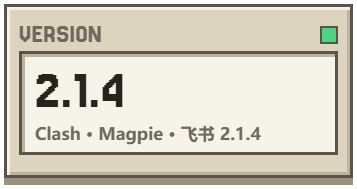
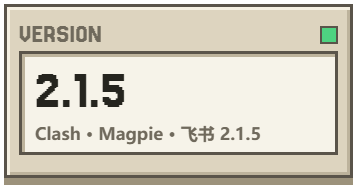
build(发行): 2.1.5 三包与目录摘要回填
2.1.4 漏发 Clash 触发器对齐修复（d159d84 未合入 main），本版一并补上并把三插件版本统一到 2.1.5。
catalog 三行回填真实包值与 v2.1.5 下载地址；README / 头部版本卡 / 错误码文案 / 维护者与开发者文档同步 2.1.5；
新增 docs/releases/2.1.5.md 说明为何是补丁重发，并把「收尾必须校验功能分支已全部合入」写进流程教训。

Changed region(s): [[0.2773, 0.3704, 0.3697, 0.582], [0.6779, 0.6614, 0.7395, 0.7407]]

diff --git a/assets/readme/header.html b/assets/readme/header.html
@@ -71,7 +71,7 @@ h1{margin:0;font-size:124px;line-height:1.12;height:140px;white-space:nowrap}
 <img class="mascot" src="mascot.png" width="188" height="239" alt="用户指定的求佛透明挂件">
 </section>
 <section class="metrics">
-<div id="stat-version" class="metric frame"><div class="metric-head pixel">VERSION<i class="lamp"></i></div><div class="metric-value"><span class="number pixel">2.1.4</span><span class="metric-label" data-zh="三插件 2.1.4" data-en="PLUGINS 2.1.4"></span></div></div>
+<div id="stat-version" class="metric frame"><div class="metric-head pixel">VERSION<i class="lamp"></i></div><div class="metric-value"><span class="number pixel">2.1.5</span><span class="metric-label" data-zh="三插件 2.1.4" data-en="PLUGINS 2.1.4"></span></div></div>
 <div id="stat-desktop" class="metric frame"><div class="metric-head pixel">PLUGINS<i class="lamp"></i></div><div class="metric-value"><span class="number pixel">3 PLUGINS</span><span class="metric-label" data-zh="三个独立插件" data-en="INDEPENDENT PLUGINS"></span></div></div>
 <div id="stat-mail" class="metric frame"><div class="metric-head pixel">PACKAGES<i class="lamp"></i></div><div class="metric-value"><span class="number pixel" data-zh="3 PACKS" data-en="3 PACKS"></span><span class="metric-label" data-zh="三个 npm 单包" data-en="NPM SINGLE PACKAGES"></span></div></div>
 <div id="stat-channels" class="metric frame"><div class="metric-head pixel">HOST API<i class="lamp"></i></div><div class="metric-value"><span class="number pixel">API 1</span><span class="metric-label" data-zh="FISH Dock 2.0.0+" data-en="FISH DOCK 2.0.0+"></span></div></div>

diff --git a/plugins/clash/page.js b/plugins/clash/page.js
@@ -118,8 +118,8 @@
   // 插件协议层（d.sdk/宿主产生）：不要落到「未识别错误」。
   COMMAND_FAILED:'这次操作插件没能完成：请重试；仍失败请打开插件日志查看原因',
   NOT_ACTIVE:'插件尚未启用：回到插件页启用后重试',
-  UNKNOWN_METHOD:'宿主与插件版本不匹配（页面要的方法插件没有）：请更新插件到 2.1.4 后重试',
-  CAPABILITY_REQUIRED:'宿主与插件版本不匹配（插件没声明所需能力）：请更新插件到 2.1.4 后重试',
+  UNKNOWN_METHOD:'宿主与插件版本不匹配（页面要的方法插件没有）：请更新插件到 2.1.5 后重试',
+  CAPABILITY_REQUIRED:'宿主与插件版本不匹配（插件没声明所需能力）：请更新插件到 2.1.5 后重试',
   BAD_HANDSHAKE:'插件没能与 Dock 完成握手：请重新安装该插件；仍失败请打开插件日志',
   HANDSHAKE_REQUIRED:'插件会话尚未就绪：请关闭并重新打开插件页面后重试',
   OPERATION_ERROR:'插件操作未完成：请刷新后重试；仍失败请打开插件日志查看原因'};

diff --git a/README.md b/README.md
@@ -12,18 +12,18 @@
 </picture>
 
 <p>
-  <a href="https://github.com/Fish-under-sea/FISH-DOCK-Plugins/releases/tag/v2.1.4"><picture><source media="(prefers-color-scheme: dark)" srcset="assets/readme/config-stat-version-zh-dark.png"><img src="assets/readme/config-stat-version-zh-light.png" alt="VERSION：三插件 2.1.4" width="23%"></picture></a>
+  <a href="https://github.com/Fish-under-sea/FISH-DOCK-Plugins/releases/tag/v2.1.5"><picture><source media="(prefers-color-scheme: dark)" srcset="assets/readme/config-stat-version-zh-dark.png"><img src="assets/readme/config-stat-version-zh-light.png" alt="VERSION：三插件 2.1.4" width="23%"></picture></a>
   <a href="#plugins"><picture><source media="(prefers-color-scheme: dark)" srcset="assets/readme/config-stat-desktop-zh-dark.png"><img src="assets/readme/config-stat-desktop-zh-light.png" alt="PLUGINS：三个独立插件" width="23%"></picture></a>
   <a href="#packages"><picture><source media="(prefers-color-scheme: dark)" srcset="assets/readme/config-stat-mail-zh-dark.png"><img src="assets/readme/config-stat-mail-zh-light.png" alt="PACKAGES：三个 npm 单包" width="23%"></picture></a>
   <a href="https://github.com/Fish-under-sea/FISH-Dock"><picture><source media="(prefers-color-scheme: dark)" srcset="assets/readme/config-stat-channels-zh-dark.png"><img src="assets/readme/config-stat-channels-zh-light.png" alt="HOST API：1，兼容 FISH Dock 2.0.0+" width="23%"></picture></a>
 </p>
 
-<p><img src="https://img.shields.io/badge/Node.js-24.14%2B-8fd6a0?style=flat-square&amp;logo=nodedotjs&amp;logoColor=white&amp;labelColor=5a544a" alt="Node.js 24.14+"> <img src="https://img.shields.io/badge/Adapter%20License-MIT-8fd6a0?style=flat-square&amp;labelColor=5a544a" alt="插件适配代码许可 MIT"> <img src="https://img.shields.io/badge/mihomo-GPL--3.0-f08a5d?style=flat-square&amp;labelColor=5a544a" alt="随包 mihomo 许可 GPL-3.0"> <img src="https://img.shields.io/badge/Plugins-2.1.4-8fd6a0?style=flat-square&amp;labelColor=5a544a" alt="三插件 2.1.4"></p>
+<p><img src="https://img.shields.io/badge/Node.js-24.14%2B-8fd6a0?style=flat-square&amp;logo=nodedotjs&amp;logoColor=white&amp;labelColor=5a544a" alt="Node.js 24.14+"> <img src="https://img.shields.io/badge/Adapter%20License-MIT-8fd6a0?style=flat-square&amp;labelColor=5a544a" alt="插件适配代码许可 MIT"> <img src="https://img.shields.io/badge/mihomo-GPL--3.0-f08a5d?style=flat-square&amp;labelColor=5a544a" alt="随包 mihomo 许可 GPL-3.0"> <img src="https://img.shields.io/badge/Plugins-2.1.5-8fd6a0?style=flat-square&amp;labelColor=5a544a" alt="三插件 2.1.4"></p>
 <p><strong>FISH Plugins &amp; Configuration · 插件配置仓</strong><br>官方插件、配置说明与发行入口；按需安装，独立运行。</p>
 
 <p>
   <a href="#get-started"><picture><source media="(prefers-color-scheme: dark)" srcset="assets/readme/key-download-zh-dark.png"><img src="assets/readme/key-download-zh-light.png" alt="下载 / Releases" height="40"></picture></a>
-  <a href="https://github.com/Fish-under-sea/FISH-DOCK-Plugins/releases/tag/v2.1.4"><picture><source media="(prefers-color-scheme: dark)" srcset="assets/readme/key-release-zh-dark.png"><img src="assets/readme/key-release-zh-light.png" alt="更新记录" height="40"></picture></a>
+  <a href="https://github.com/Fish-under-sea/FISH-DOCK-Plugins/releases/tag/v2.1.5"><picture><source media="(prefers-color-scheme: dark)" srcset="assets/readme/key-release-zh-dark.png"><img src="assets/readme/key-release-zh-light.png" alt="更新记录" height="40"></picture></a>
   <a href="https://github.com/Fish-under-sea/FISH-DOCK-Plugins/issues"><picture><source media="(prefers-color-scheme: dark)" srcset="assets/readme/key-issues-zh-dark.png"><img src="assets/readme/key-issues-zh-light.png" alt="反馈 / Issues" height="40"></picture></a>
 </p>
 
@@ -35,14 +35,16 @@
 
 每个插件独立保存配置与凭据，按需启动，不共享业务密钥。插件仓只发布插件资源，桌面安装包请前往 [FISH-Dock](https://github.com/Fish-under-sea/FISH-Dock)。
 
-本版是**三插件 2.1.4**：**Clash 2.1.3 → 2.1.4**、**Magpie 2.1.3 → 2.1.4**、**飞书 2.1.0 → 2.1.4**。要求 **FISH Dock ≥ 2.0.0**。完整改动见 [2.1.4 发行说明](docs/releases/2.1.4.md)。
+本版是**三插件 2.1.5**（2.1.4 的补丁重发：Clash 的触发器对齐修复在 2.1.4 里漏合，本版一并补上）。三插件版本一致：**Clash 2.1.4 → 2.1.5**、**Magpie 2.1.4 → 2.1.5**、**飞书 2.1.4 → 2.1.5**。要求 **FISH Dock ≥ 2.0.0**。完整改动见 [2.1.5 发行说明](docs/releases/2.1.4.md)。
 
-**2.1.4 改了什么**
+**2.1.5 改了什么**
 
 - **Clash：七项 UX 修复 + 订阅运行中热切换**：胶囊按钮不再被长文案压成竖排圆块（禁用原因拆成按钮下方小字）；详情卡「复制」按钮移除、左右两卡行高基线对齐；**点订阅卡 = 高亮 + 切换启用**（同时只允许一条启用，卡内开关与卡片高亮双向联动）；内核运行中切换订阅**热重载配置，不停内核**（失败自动回滚启用集与配置文件）；下拉弹层内滚轮不再误关闭；两个下拉箭头换成内联 SVG 垂直居中；读数行数值不再被裁。注意一条行为变化：**没有缓存的订阅现在直接拒绝启用**（此前是「启用成功、下次启动内核才失败」），避免内核带着空 provider 起来。
+- **Clash 两个下拉触发器首列对齐（2.1.5 补发）**：`justify-content:flex-start` + 图标盒恒在 + 右侧那组贴右（有延迟由延迟吃 `auto`，没有则由箭头吃），两个触发器的文字相对左边缘偏移实测 37px = 37px；顺带修掉「无 emoji 时首列少 24px」。
+- **以下为 2.1.4 首次引入、2.1.5 一并包含**：
 - **飞书页面按 2.1.4 设计语言重构**：单栏与双栏两套布局分别设计（不是一套挤成两列，720px 以下自动降单栏）；token 化自持深浅主题；布局切换器、卡片、按钮语义、状态 banner 与无障碍全部对齐 Clash 同款刻度。
 - **Magpie：exe 换上游基线 `v0.1.2732`（`+fish.9`）**，随包 exe 与 2.1.3 **不再逐字节相同**（74,019,840 → 79,512,064 B）。上游带来的用户可感知变化见[发行说明](docs/releases/2.1.4.md)；我们自己的改动：**新增内置 Meoo 秒悟（建站 Agent）**、**OpenCode Zen Free 移出预装**（已装用户不受影响，美化素材保留）、**#18 五项落地**——讯飞不再显示假 400（读不到真实积分就「未告知」）、签到数据带「截至时间/来源」、不支持采集的显示标记、首启「正在准备 N 个供应商插件」可用、首启图标不再抖动；`preinstall-state.json` 首启落盘接上线。
-- **包与版本**：三插件统一 2.1.4；`magpie.exe` 版本资源 `0.1.2732.9`（ProductName `magpie fish`）；内置页面插件 `page-checkin` 保持 0.2.6。
+- **包与版本**：三插件统一 2.1.5；`magpie.exe` 版本资源 `0.1.2732.9`（ProductName `magpie fish`）；内置页面插件 `page-checkin` 保持 0.2.6。
 
 > ℹ **2.1.3 的已知限制已在 2.1.4 修复**：讯飞今日积分显示 400 的问题（读取侧补偿）随 #18 的 B1 移除，读不到真实积分时显示「未告知」。
 
@@ -120,7 +122,7 @@
 
 <h2 id="get-started"><picture><source media="(prefers-color-scheme: dark)" srcset="assets/readme/section-install-dark.png"><img src="assets/readme/section-install-light.png" alt="INSTALL · 安装使用" width="100%"></picture></h2>
 
-安装前先核对宿主版本：三个插件都是 2.1.4，**FISH Dock 需要 2.0.0 及以上**；1.2.3 及更早的宿主会因清单里的 `behaviors` 字段拒装。
+安装前先核对宿主版本：三个插件都是 2.1.5，**FISH Dock 需要 2.0.0 及以上**；1.2.3 及更早的宿主会因清单里的 `behaviors` 字段拒装。
 
 **方式一：Dock 内插件市场（推荐）**
 
@@ -130,7 +132,7 @@
 
 **方式二：npm 单包**
 
-1. `npm install @fish-under-sea/fish-dock-plugin-<插件>@2.1.4`（三个包名见下方「npm 单包」一节）。
+1. `npm install @fish-under-sea/fish-dock-plugin-<插件>@2.1.5`（三个包名见下方「npm 单包」一节）。
 2. `npx @fish-under-sea/fish-dock-plugin-<插件> --out C:/work/plugins`：把已校验的 `.fish-plugin` 复制到指定目录；目标已存在同名文件时命令会停下，不覆盖。
 3. 在 Dock 的「插件」页导入该 `.fish-plugin`，其余同方式一。
 
@@ -138,23 +140,23 @@
 
 | 插件 | GitHub 包 | npm 单包 |
 | --- | --- | --- |
-| 飞书 2.1.4 | [`feishu.fish-plugin`](https://github.com/Fish-under-sea/FISH-DOCK-Plugins/releases/download/v2.1.4/feishu.fish-plugin) | [`@fish-under-sea/fish-dock-plugin-feishu`](https://www.npmjs.com/package/@fish-under-sea/fish-dock-plugin-feishu) |
-| Clash 2.1.4 | [`clash.fish-plugin`](https://github.com/Fish-under-sea/FISH-DOCK-Plugins/releases/download/v2.1.4/clash.fish-plugin) | [`@fish-under-sea/fish-dock-plugin-clash`](https://www.npmjs.com/package/@fish-under-sea/fish-dock-plugin-clash/v/2.1.4) |
-| Magpie 2.1.4 | [`magpie.fish-plugin`](https://github.com/Fish-under-sea/FISH-DOCK-Plugins/releases/download/v2.1.4/magpie.fish-plugin) | [`@fish-under-sea/fish-dock-plugin-magpie`](https://www.npmjs.com/package/@fish-under-sea/fish-dock-plugin-magpie/v/2.1.4) |
+| 飞书 2.1.5 | [`feishu.fish-plugin`](https://github.com/Fish-under-sea/FISH-DOCK-Plugins/releases/download/v2.1.5/feishu.fish-plugin) | [`@fish-under-sea/fish-dock-plugin-feishu`](https://www.npmjs.com/package/@fish-under-sea/fish-dock-plugin-feishu) |
+| Clash 2.1.5 | [`clash.fish-plugin`](https://github.com/Fish-under-sea/FISH-DOCK-Plugins/releases/download/v2.1.5/clash.fish-plugin) | [`@fish-under-sea/fish-dock-plugin-clash`](https://www.npmjs.com/package/@fish-under-sea/fish-dock-plugin-clash/v/2.1.4) |
+| Magpie 2.1.5 | [`magpie.fish-plugin`](https://github.com/Fish-under-sea/FISH-DOCK-Plugins/releases/download/v2.1.5/magpie.fish-plugin) | [`@fish-under-sea/fish-dock-plugin-magpie`](https://www.npmjs.com/package/@fish-under-sea/fish-dock-plugin-magpie/v/2.1.4) |
 
 <h2 id="packages"><picture><source media="(prefers-color-scheme: dark)" srcset="assets/readme/section-packages-dark.png"><img src="assets/readme/section-packages-light.png" alt="PACKAGES · npm 单包" width="100%"></picture></h2>
 
-每个 npm 包只包含一个对应的插件归档和下载 CLI（bin 名 `fish-dock-plugin-<插件>`），不运行安装后脚本，不修改 Dock 或系统设置。**三个插件都是 2.1.4**（OFM 单包停在 2.0.1，只供手动下载），要求 **Node.js ≥ 24** 与 **FISH Dock ≥ 2.0.0**。
+每个 npm 包只包含一个对应的插件归档和下载 CLI（bin 名 `fish-dock-plugin-<插件>`），不运行安装后脚本，不修改 Dock 或系统设置。**三个插件都是 2.1.5**（OFM 单包停在 2.0.1，只供手动下载），要求 **Node.js ≥ 24** 与 **FISH Dock ≥ 2.0.0**。
 
 | npm 单包（完整包名） | 版本 | bin | `npm pack` 体积 |
 | --- | --- | --- | --- |
-| `@fish-under-sea/fish-dock-plugin-feishu` | 2.1.4 | `fish-dock-plugin-feishu` | 27.7 kB（6 个文件） |
-| `@fish-under-sea/fish-dock-plugin-clash` | 2.1.4 | `fish-dock-plugin-clash` | 16.4 MB（7 个文件，含 mihomo 许可） |
-| `@fish-under-sea/fish-dock-plugin-magpie` | 2.1.4 | `fish-dock-plugin-magpie` | 29.5 MB（7 个文件，含 Magpie 许可） |
+| `@fish-under-sea/fish-dock-plugin-feishu` | 2.1.5 | `fish-dock-plugin-feishu` | 27.7 kB（6 个文件） |
+| `@fish-under-sea/fish-dock-plugin-clash` | 2.1.5 | `fish-dock-plugin-clash` | 16.4 MB（7 个文件，含 mihomo 许可） |
+| `@fish-under-sea/fish-dock-plugin-magpie` | 2.1.5 | `fish-dock-plugin-magpie` | 29.5 MB（7 个文件，含 Magpie 许可） |
 | `@fish-under-sea/fish-dock-plugin-ofm` | 2.0.1（暂停维护，仅手动） | `fish-dock-plugin-ofm` | 1.9 MB（6 个文件） |
 
 ```powershell
-npm install @fish-under-sea/fish-dock-plugin-clash@2.1.4
+npm install @fish-under-sea/fish-dock-plugin-clash@2.1.5
 npx @fish-under-sea/fish-dock-plugin-clash --out C:/work/plugins
 ```
 
@@ -182,7 +184,7 @@ node --test --test-isolation=none 'plugins/feishu/*.test.mjs' 'plugins/clash/*.t
 | [自编译 Magpie](plugins/magpie/tools/README.md) | 补丁清单与每一处为什么补、构建命令、版本标识、跟着上游升级时会踩的坑 |
 | [签到页说明](plugins/magpie/page-plugins/page-checkin/README.md) | 宿主提供哪些读与调用、「预装插件美化」开关怎么工作、素材为什么编进 exe |
 | [厂商素材来源](plugins/magpie/page-plugins/page-checkin/page/logos/README.md) | 每张厂商图的来源、裁切范围与授权状况 |
-| [发行说明](docs/releases/) | 逐版本的改动与验证；最新是 [2.1.4](docs/releases/2.1.4.md) |
+| [发行说明](docs/releases/) | 逐版本的改动与验证；最新是 [2.1.5](docs/releases/2.1.5.md) |
 | [第三方许可](THIRD_PARTY_NOTICES.md) | 随包运行时的许可与来源（mihomo 的 GPL-3.0、Magpie 的随包许可等） |
 | [README 头图维护](assets/readme/MAINTAINING.md) | 头图怎么渲染、字号与卡片尺寸的约束、哪些东西不能换 |
 

diff --git a/docs/releases/2.1.5.md b/docs/releases/2.1.5.md
@@ -1,0 +1,43 @@
+# 插件 2.1.5
+
+> 定稿：2026-11-02。**本版是 2.1.4 的补丁重发**：2.1.4 发布后发现 Clash 的「两个下拉触发器首列对齐」修复（`d159d84`，2.1.4 审查后追加）**没有合入 main**，因此不在已发布的 2.1.4 包里。2.1.5 把它补上，并把三插件版本号统一到 2.1.5。
+>
+> 2.1.4 的完整内容（飞书跟随重构、Clash 七项 + 热切换、Magpie 追上游 `v0.1.2732` + #18 五项 + Meoo 内置）见 [2.1.4](2.1.4.md)，2.1.5 全部包含，不重复叙述。
+
+## 一、版本口径
+
+| 插件 | 起始 | 目标 | 说明 |
+| --- | --- | --- | --- |
+| `fish.clash` | 2.1.4 | **2.1.5** | 唯一有代码变化的插件：触发器对齐 3 文件 17+/2− |
+| `fish.magpie` | 2.1.4 | **2.1.5** | 代码与 2.1.4 相同，仅版本位提升 |
+| `fish.feishu` | 2.1.4 | **2.1.5** | 代码与 2.1.4 相同，仅版本位提升 |
+| `fish.ofm` | 2.0.1 | 2.0.1（保持） | 暂停维护，不跟随 |
+
+三插件同版，`catalog/stable.json` 三行与 README、头部版本卡一致（`render-readme` 会因三版本不一致直接抛错）。
+
+## 二、本版改动（相对 2.1.4）
+
+**Clash：两个下拉触发器首列文字对齐**（`d159d84`）
+
+- 根因：`.combo-trigger` 原是 `justify-content:space-between`。代理组触发器只有 [图标][文字][箭头] 三个子元素，空余被均分，文字被推到中间；节点触发器多一个延迟（`margin-left:auto`）把文字压回左侧 → 两个并排的框文字起点差一大截。
+- 修法：`justify-content:flex-start`，右侧那组整体贴右——**有延迟时由 `.trigger-delay{margin-left:auto}` 吃，没有延迟时由 `.combo-trigger:not(:has(.trigger-delay)) .chev{margin-left:auto}` 吃**；不新增占位元素。
+- 第二处同源问题：`comboTrigger()` 里的 `.lb-ico` 原是**按条件渲染**（节点名是 `DIRECT` 这类没有 emoji 时就没有图标盒），首列又少 24px → 改为无条件渲染，与「选项行的 emoji 一律进 16px 盒」同一条规矩。
+- 实测：两个触发器的 `.trigger-text` 相对各自左边缘偏移 **37px = 37px**（37 = 边框 1 + 内边距 12 + 图标盒 16 + gap 8），900/560 两档与弹层展开态一致。
+- 测试：`plugins/clash/*.test.mjs` 137 项 / 134 通过 / 3 环境 skip / 0 失败，新增一条静态用例钉住「`flex-start` + 图标盒不许条件省略」。
+
+## 三、为什么是重发而不是改 2.1.4
+
+`v2.1.4` 的 tag、GitHub Release 资产与 npm 三个包都已发布，**已发布产物不可原地替换**（下游按 `sha256` 校验，仓库里也有引用）。因此按补丁版处理：main 上合入 `d159d84`，三插件统一升 2.1.5，重新出包、回填目录、发 Release 与 npm。
+
+同时修正一处流程漏洞：**t9 收尾只核了"版本位改齐"，没有核"每条已合入的修复是否都进了 main"**。2.1.4 期间 `feat/214-clash` 上最后一个提交（审查后追加的对齐修复）没被合并，而收尾成员在写发行说明时把它当成已完成。后续版本收尾必须做一次 `git log --oneline main..<每条功能分支>` 为空校验——已在维护者指南的收尾清单里补上这一条。
+
+## 四、验证
+
+- main 实测（2026-11-02，`node --test --test-isolation=none`）：clash 137 / 134 pass / 3 skip / 0 fail；feishu 7/7；magpie 64 / 62 pass / 2 skip / 0 fail；shared 19/19。
+- Go 侧与 Magpie 原生侧与 2.1.4 相同（`magpie.exe` 79,512,064 B / `88872895…` / `0.1.2732.9`，未重编）。
+- 视觉：`reports/clash-visual/214/` 的 6 张图即含对齐修复后的版本（触发器 37/37），断言 48 项全 PASS、`errors=0`。
+
+## 五、已验证 / 未验证
+
+- 已验证：上述测试、触发器偏移实测、包内文件与仓库逐字节一致（出包后复核）、`catalog` 摘要三重比对。
+- 未验证（与 2.1.4 相同，转后续）：真机四态冒烟、冷启 5 次 `icons/brand` 不抖、`preinstall-state.json` 首启存在、Meoo 首次 git 安装、非沙箱复跑 `internal/plugin` 6 条、上游 `internal/gateway` 行为。详见 [2.1.4 §七](2.1.4.md)。

diff --git a/docs/maintainers/README.md b/docs/maintainers/README.md
@@ -2,7 +2,7 @@
 
 2.0.0 把四个官方插件一起升到大版本：飞书、Clash、Magpie、OFM 全部 2.0.0，配套 FISH Dock 2.0.0+。作者改为数组、维护者字段整体去掉，OFM 带暂停维护标注。Magpie 随包的原生服务早已不是官方版：2.0.1 起是**源码自编译**（基线上游 tag 加我们自己的补丁，当前 `v0.1.2732+fish.9`，2.1.4 起基线随上游换新），原因与补丁清单见 [自编译说明](../../plugins/magpie/tools/README.md)。
 
-**当前版本**：飞书 **2.1.4**、Clash **2.1.4**、Magpie **2.1.4**（exe `v0.1.2732+fish.9`）、OFM **2.0.1**（暂停维护）。发行走 `v2.1.x` 之类的总 tag，一个 release 里放当次要发的包——不必四个一起发。发行工具生成标准 ZIP 插件包、逐资源 SHA-256、商店目录及总摘要；桌面安装器与业务插件分别在各自仓库发布。
+**当前版本**：飞书 **2.1.5**、Clash **2.1.5**、Magpie **2.1.5**（exe `v0.1.2732+fish.9`）、OFM **2.0.1**（暂停维护）。发行走 `v2.1.x` 之类的总 tag，一个 release 里放当次要发的包——不必四个一起发。发行工具生成标准 ZIP 插件包、逐资源 SHA-256、商店目录及总摘要；桌面安装器与业务插件分别在各自仓库发布。
 
 ## 身份表
 

diff --git a/docs/developers/README.md b/docs/developers/README.md
@@ -1,6 +1,6 @@
 # 插件开发者指南
 
-当前协议为 v1。已发布的四个：飞书 **2.1.4**、Clash **2.1.4**、Magpie **2.1.4**（exe `v0.1.2732+fish.9`）、OFM **2.0.1**（暂停维护）；作者用数组、不再有维护者字段。`plugins/relay-probe` 是开发中的中转站行为探针，尚未进入发行目录；`plugins/magpie/page-plugins/` 下的页面插件随 Magpie 包分发，也不单独发行。源码已接入独立后台、分类存储和业务页面；发行资源与线上索引由插件仓 Release 提供。
+当前协议为 v1。已发布的四个：飞书 **2.1.5**、Clash **2.1.5**、Magpie **2.1.5**（exe `v0.1.2732+fish.9`）、OFM **2.0.1**（暂停维护）；作者用数组、不再有维护者字段。`plugins/relay-probe` 是开发中的中转站行为探针，尚未进入发行目录；`plugins/magpie/page-plugins/` 下的页面插件随 Magpie 包分发，也不单独发行。源码已接入独立后台、分类存储和业务页面；发行资源与线上索引由插件仓 Release 提供。
 
 ## 仓库边界
 
